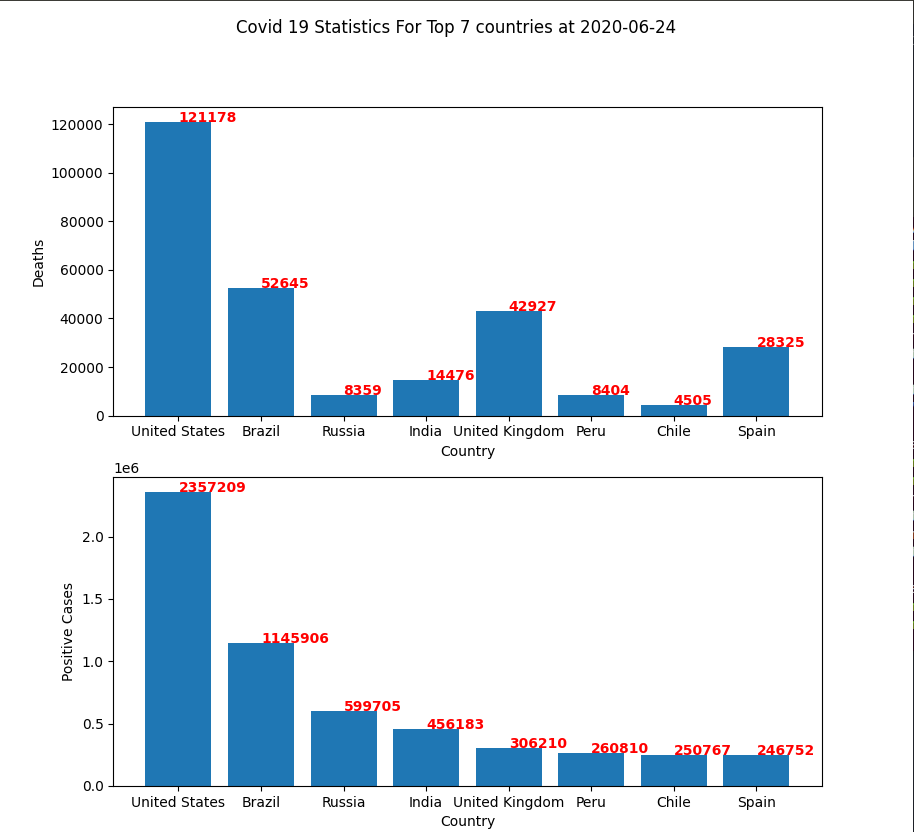
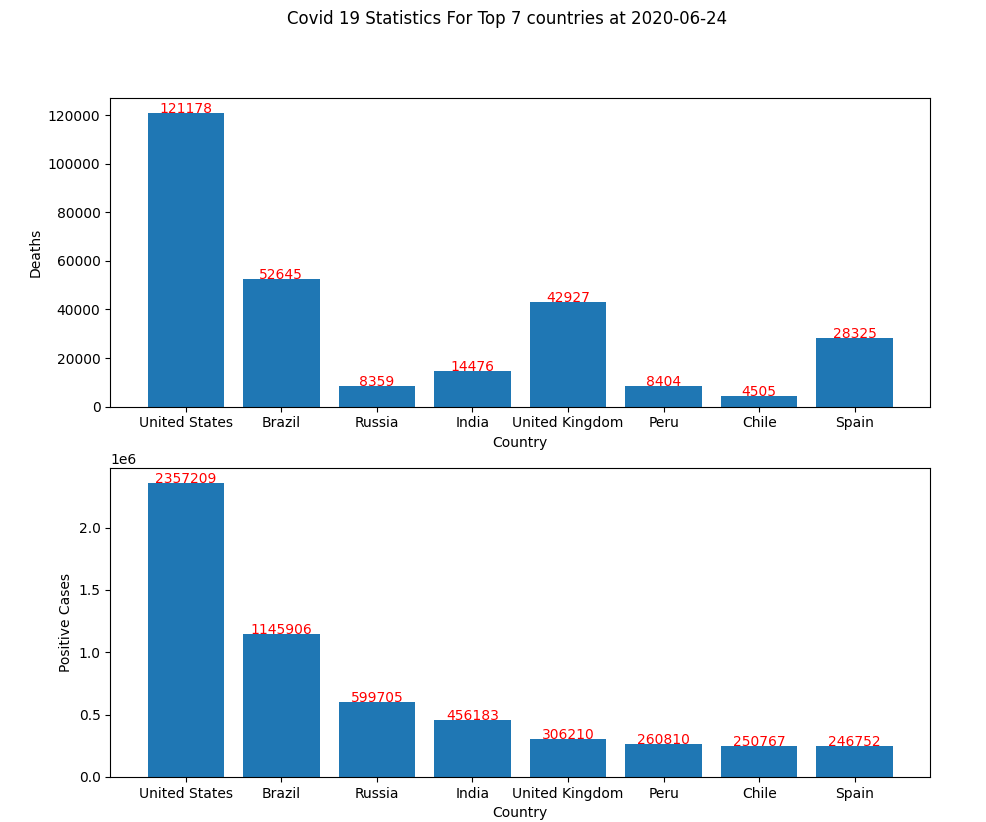
change arguments for data visualization

Changed region(s): [[0.0306, 0.1217, 0.919, 1.0], [0.2757, 0.0, 0.7352, 0.0608]]

diff --git a/displayResult.py b/displayResult.py
@@ -50,7 +50,8 @@ class Dashboard(object):
     @classmethod
     def textValueOnChart(self, axs, values):
         for idx, value in enumerate(values):
-            axs.text(idx, value, value, color = 'red', fontweight = 'bold')
+            axs.text(idx, value, value, color = 'red', horizontalalignment = 'center'
+                            , verticalalignment = 'baseline')
 
 def checkCmdArgs():
     if len(sys.argv) != 3:
